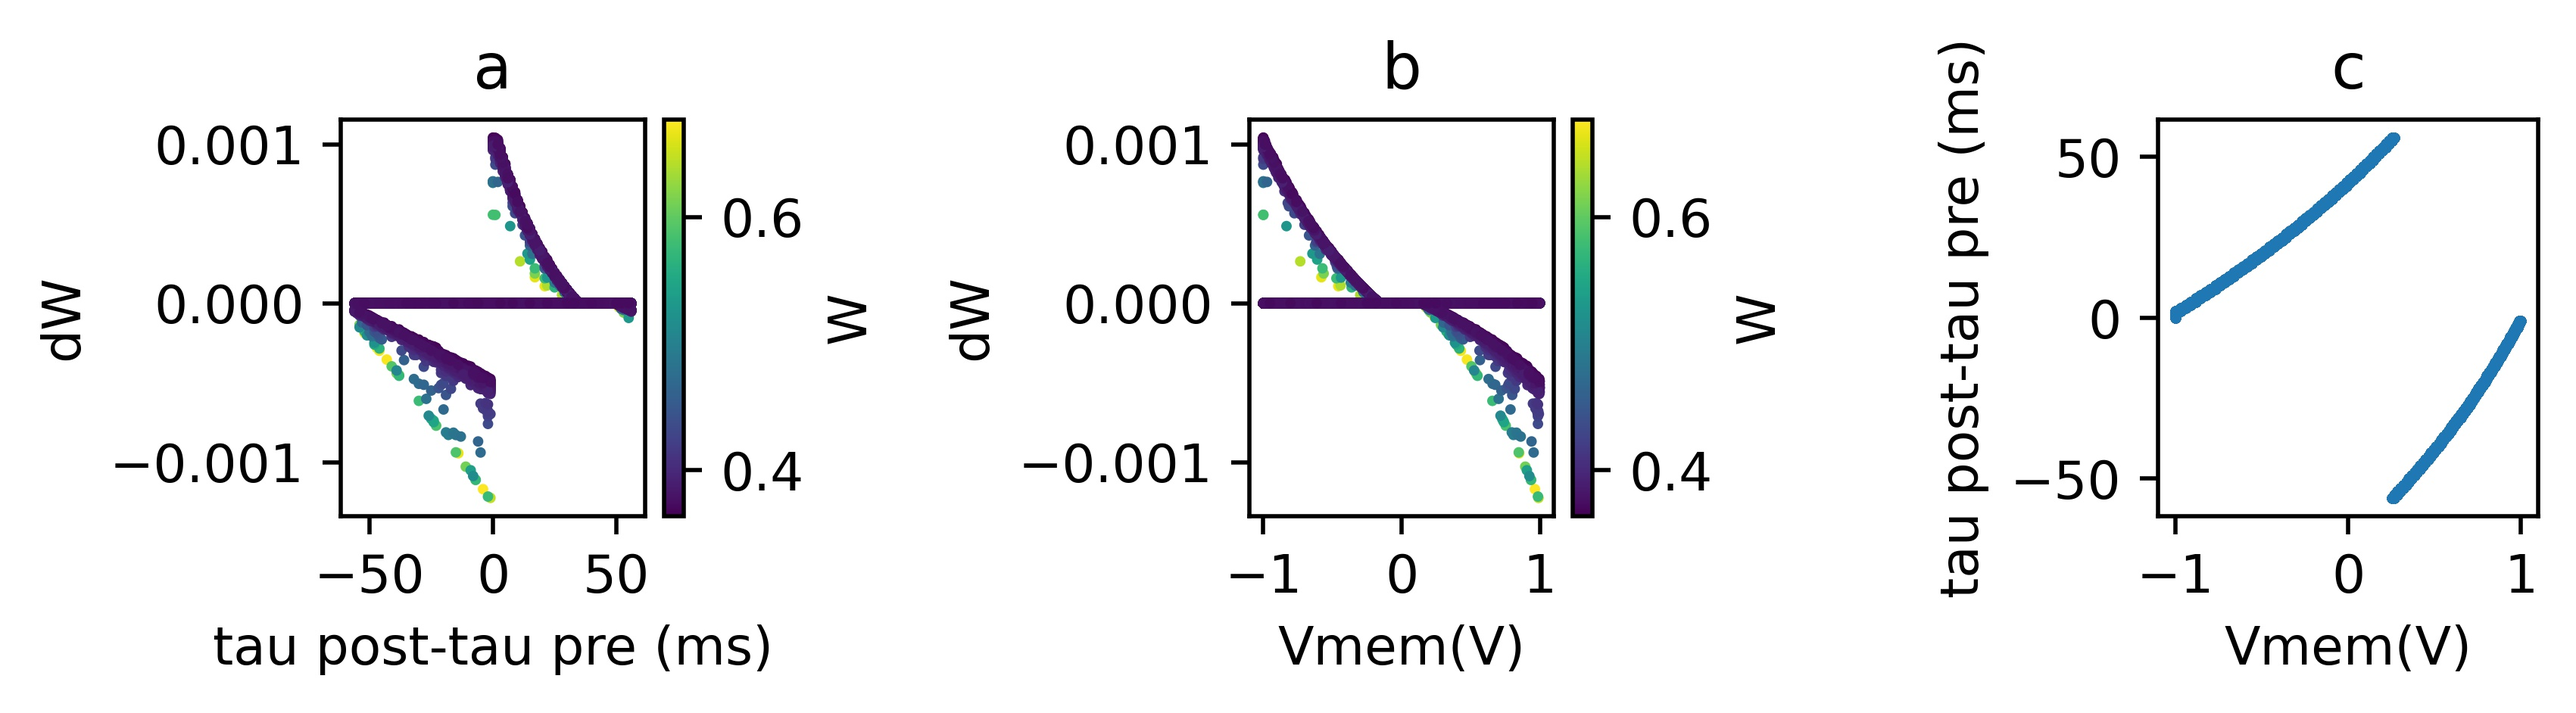
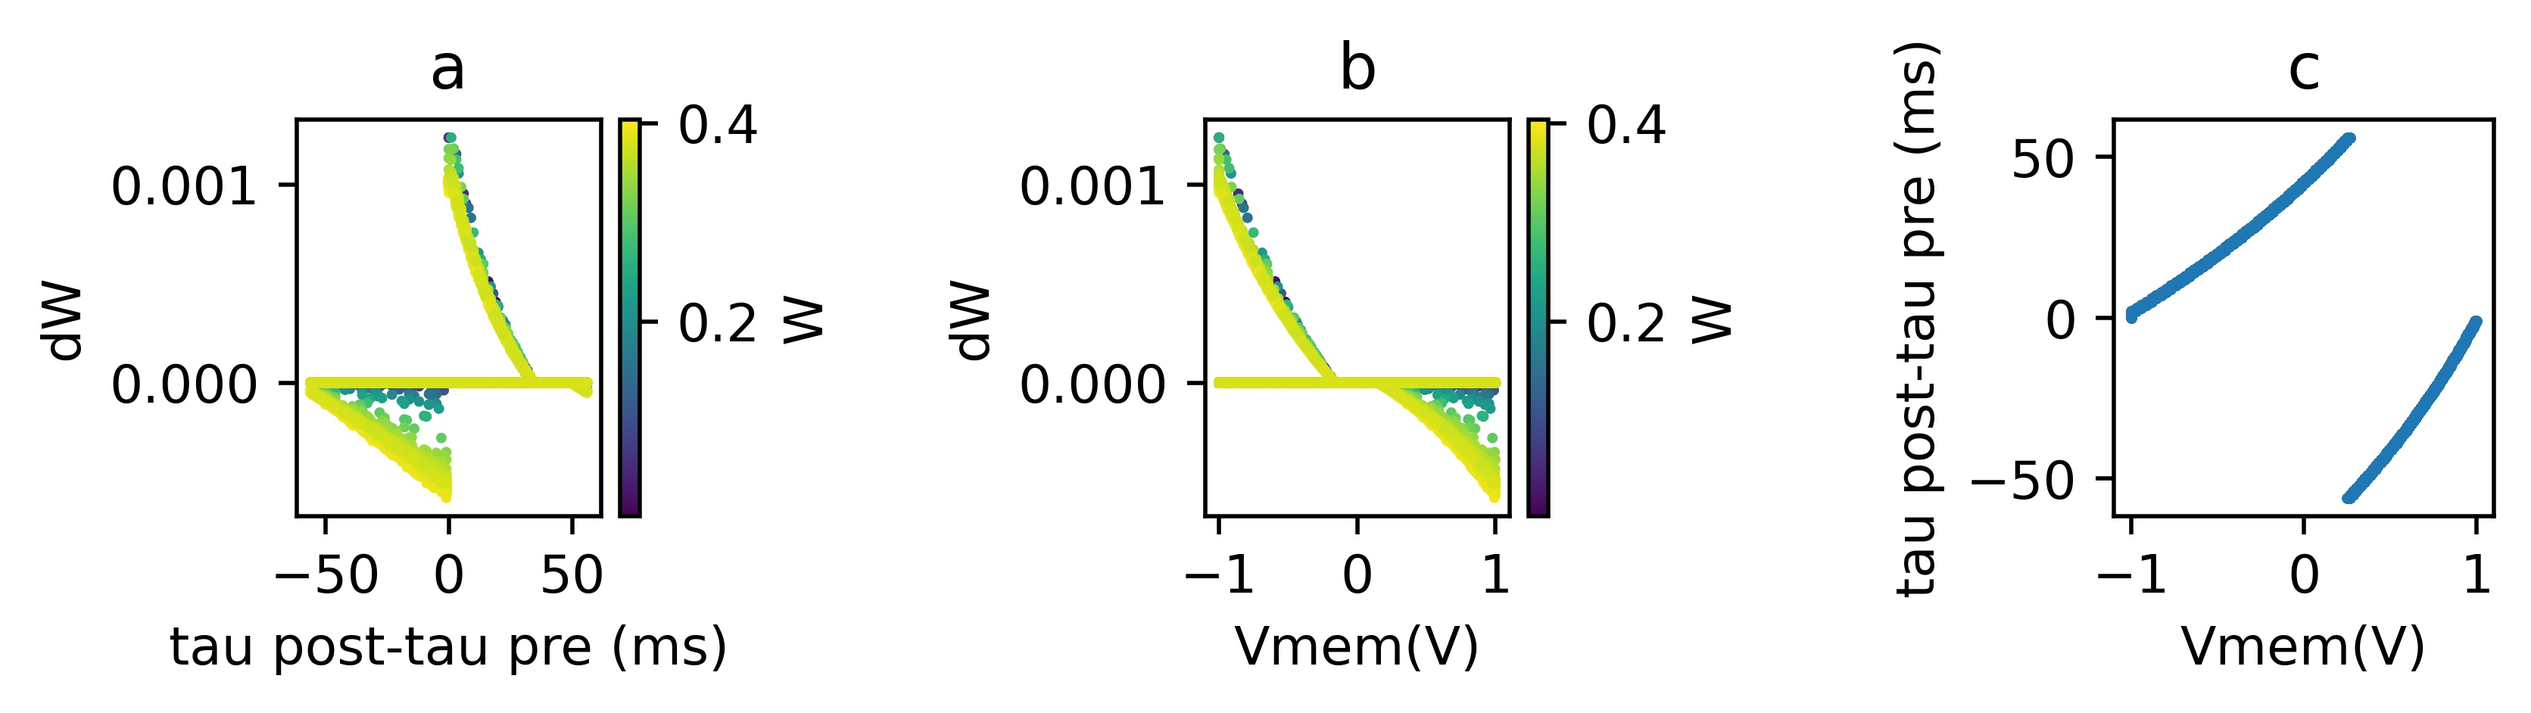
updates

diff --git a/utilis.py b/utilis.py
@@ -440,8 +440,8 @@ def fun_post(X,
     dW = (cond_pot*f_pot*g_pot  +  cond_dep*f_dep*g_dep)*eta
     return dW
 
-popt = np.array((1.00203134e+00, 4.94283756e+00, 5.06605428e-01, 5.06457823e-01,
-       1.57871670e-03))
+popt = np.array((1.00220687e+00,  5.01196597e+00, -3.54137489e-03, -3.54157996e-03,
+       -2.25853150e-01))
 
 # popt = np.array((6.05881551e-01,  1.01044824e-03,  3.37283747e-02,  1.39655640e+00,
 #        -3.15512476e+00,  1.00677440e+01,  7.71595083e-05,  3.22900706e+00,

diff --git a/mnist_multiple_exploration_local.py b/mnist_multiple_exploration_local.py
@@ -50,12 +50,12 @@ if __name__ == '__main__':
 
 
 	parameters = dict(
-		vprog = [-0.15, -0.2, -0.25,-0.3,-0.35,-0.4,-0.45,-0.5,-0.55,-0.6,-0.65,-0.7]
+		vprog = [-0.45,-0.5,-0.55,-0.6,-0.65,-0.7]
 		,input_nbr=[6000]
 		,g_max=[1/210]
 		,tau_in = [0.06]
 		,tau_out = [0.06]
-		, lr = [0.125, 1]
+		, lr = [0.01,0.125,0.5,1,2]
 		,iterations=[1]
 		, presentation_time = [0.35]
 		, dt = [0.005]

diff --git a/mnist_multiple_exploration.py b/mnist_multiple_exploration.py
@@ -55,7 +55,7 @@ if __name__ == '__main__':
 		,g_max=[1/210]
 		,tau_in = [0.06]
 		,tau_out = [0.06]
-		, lr = [0.1,1]
+		, lr = [0.5]
 		,iterations=[1]
 		, presentation_time = [0.35]
 		, dt = [0.005]

diff --git a/mnist_multiple_exploration_v2.py b/mnist_multiple_exploration_v2.py
@@ -55,7 +55,7 @@ if __name__ == '__main__':
 		,g_max=[1/210]
 		,tau_in = [0.06]
 		,tau_out = [0.06]
-		, lr = [0.1,1]
+		, lr = [0.5]
 		,iterations=[1]
 		, presentation_time = [0.35]
 		, dt = [0.005]
